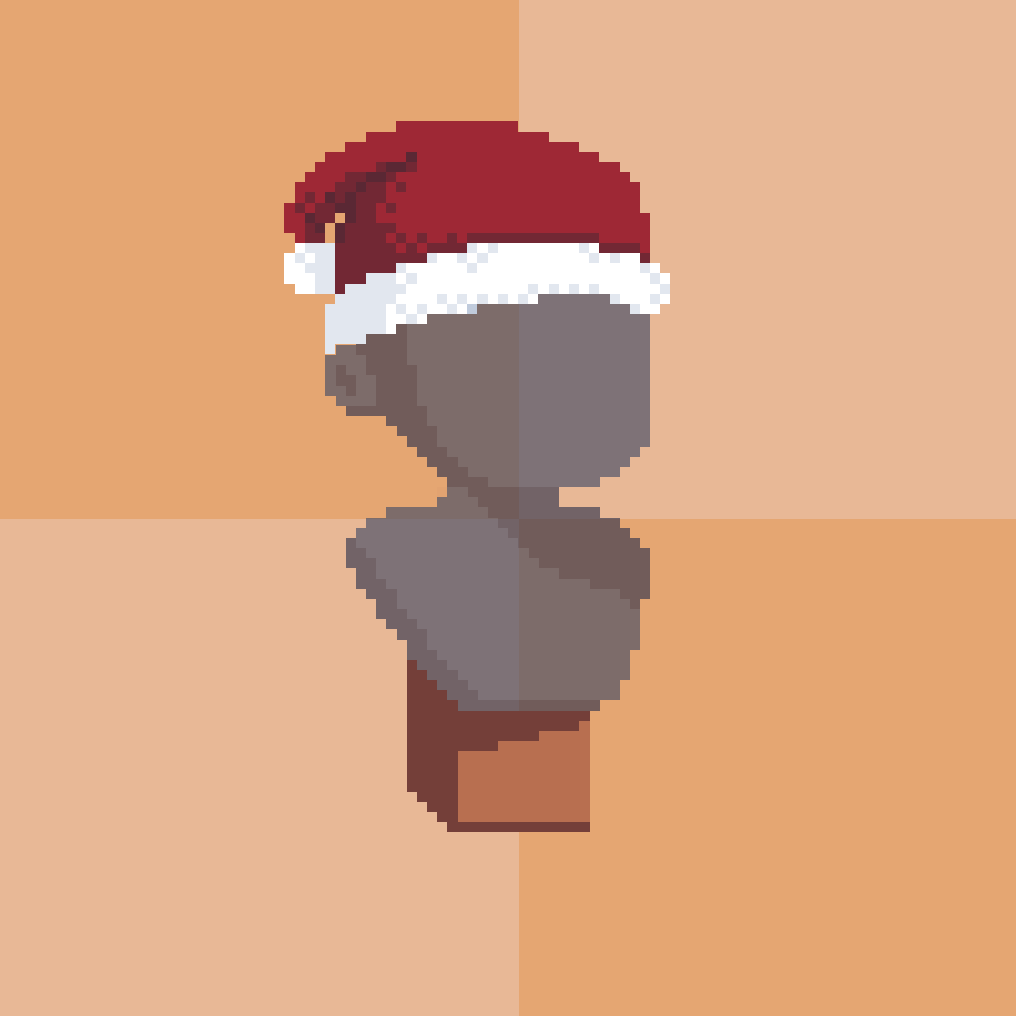
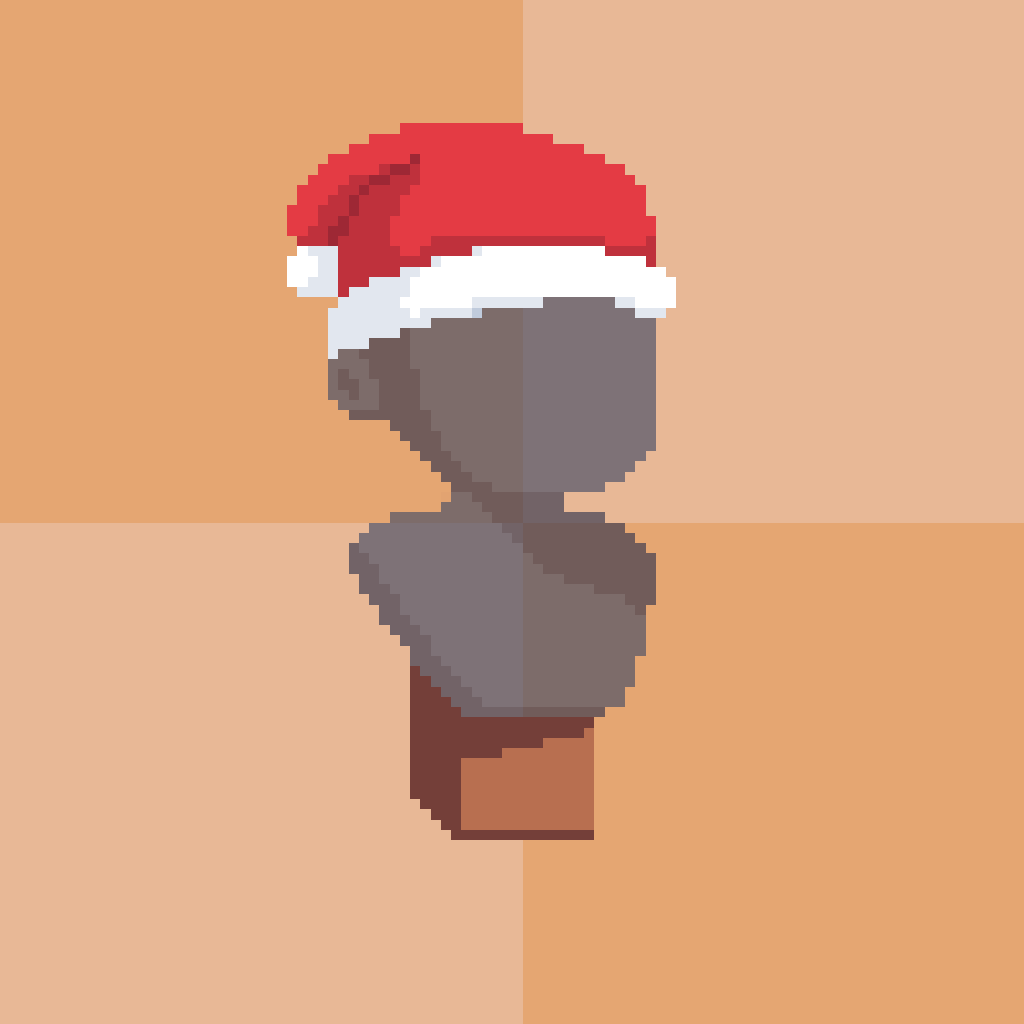
[FEAT] Xmas wearables

Changed region(s): [[0.2746, 0.122, 0.6713, 0.3356], [0.4272, 0.7933, 0.5797, 0.8238]]

diff --git a/src/features/bumpkins/types/Items.ts b/src/features/bumpkins/types/Items.ts
@@ -25,7 +25,8 @@ export type BumpkinBody =
   | "Infernal Goblin Potion"
   | "Pale Potion"
   | "Squirrel Monkey Potion"
-  | "Mermaid Potion";
+  | "Mermaid Potion"
+  | "Elf Potion";
 
 export type BumpkinHair =
   | "Basic Hair"
@@ -134,7 +135,8 @@ export type BumpkinTool =
   | "Skinning Knife"
   | "Sunflower Rod"
   | "Infernal Rod"
-  | "Pickaxe Shark";
+  | "Pickaxe Shark"
+  | "Candy Cane";
 
 export type BumpkinShoe =
   | "Black Farmer Boots"
@@ -147,7 +149,8 @@ export type BumpkinShoe =
   | "Leather Shoes"
   | "Old Shoes"
   | "Flip Flops"
-  | "Wellies";
+  | "Wellies"
+  | "Elf Shoes";
 
 export type BumpkinNecklace =
   | "Sunflower Amulet"
@@ -164,6 +167,7 @@ export type BumpkinHat =
   | "Skull Hat"
   | "Reindeer Antlers"
   | "Santa Hat"
+  | "Elf Hat"
   | "Lion Dance Mask"
   | "Fruit Bowl"
   | "Pirate Hat"
@@ -273,7 +277,9 @@ export type BumpkinSuit =
   | "Reindeer Suit"
   | "Imp Costume"
   | "Ox Costume"
-  | "Potato Suit";
+  | "Potato Suit"
+  | "Santa Suit"
+  | "Elf Suit";
 
 export type BumpkinWings =
   | "Angel Wings"
@@ -283,7 +289,7 @@ export type BumpkinWings =
   | "Crow Wings"
   | "Bat Wings";
 
-export type BumpkinBeard = "Wise Beard" | "Hoary Chin";
+export type BumpkinBeard = "Wise Beard" | "Hoary Chin" | "Santa Beard";
 
 export type BumpkinItem =
   | BumpkinBody
@@ -559,6 +565,13 @@ export const ITEM_IDS: Record<BumpkinItem, number> = {
   "Seedling Hat": 258,
   "Stormy Dumbo": 259,
   "Ugly Christmas Sweater": 260,
+  "Candy Cane": 261,
+  "Elf Hat": 262,
+  "Elf Potion": 263,
+  "Elf Shoes": 264,
+  "Elf Suit": 265,
+  "Santa Beard": 266,
+  "Santa Suit": 267,
 };
 
 // The reverse of above
@@ -878,4 +891,11 @@ export const BUMPKIN_ITEM_PART: Record<BumpkinItem, keyof Wallet> = {
   "Seedling Hat": "hat",
   "Stormy Dumbo": "hat",
   "Ugly Christmas Sweater": "shirt",
+  "Candy Cane": "tool",
+  "Elf Hat": "hat",
+  "Elf Potion": "body",
+  "Elf Shoes": "shoes",
+  "Elf Suit": "suit",
+  "Santa Beard": "beard",
+  "Santa Suit": "suit",
 };

diff --git a/src/features/bumpkins/types/Images.ts b/src/features/bumpkins/types/Images.ts
@@ -250,6 +250,13 @@ import PickaxeShark from "assets/open-sea/images/257.png";
 import SeedlingHat from "assets/open-sea/images/258.png";
 import StormyDumbo from "assets/open-sea/images/259.png";
 import UglyChristmasSweater from "assets/open-sea/images/260.png";
+import CandyCane from "assets/open-sea/images/261.png";
+import ElfHat from "assets/open-sea/images/262.png";
+import ElfPotion from "assets/open-sea/images/263.png";
+import ElfShoes from "assets/open-sea/images/264.png";
+import ElfSuit from "assets/open-sea/images/265.png";
+import SantaBeard from "assets/open-sea/images/266.png";
+import SantaSuit from "assets/open-sea/images/267.png";
 
 export const IMAGES: Record<BumpkinItem, string> = {
   "Beige Farmer Potion": BeigeFarmerPotion,
@@ -507,4 +514,11 @@ export const IMAGES: Record<BumpkinItem, string> = {
   "Seedling Hat": SeedlingHat,
   "Stormy Dumbo": StormyDumbo,
   "Ugly Christmas Sweater": UglyChristmasSweater,
+  "Candy Cane": CandyCane,
+  "Elf Hat": ElfHat,
+  "Elf Potion": ElfPotion,
+  "Elf Shoes": ElfShoes,
+  "Elf Suit": ElfSuit,
+  "Santa Beard": SantaBeard,
+  "Santa Suit": SantaSuit,
 };

diff --git a/src/features/bumpkins/types/ItemDetails.ts b/src/features/bumpkins/types/ItemDetails.ts
@@ -1186,4 +1186,32 @@ export const DETAILS: Record<BumpkinItem, ItemDetails> = {
     description: "A whimsical holiday wearable from Earn Alliance",
     part: "shirt",
   },
+  "Candy Cane": {
+    description: "A festive tool for spreading sweet holiday cheer.",
+    part: "tool",
+  },
+  "Elf Hat": {
+    description: "Get into the holiday spirit with this whimsical elf hat.",
+    part: "hat",
+  },
+  "Elf Potion": {
+    description: "Magical elixir to bring out your inner elf.",
+    part: "body",
+  },
+  "Elf Shoes": {
+    description: "Stylish footwear to complete your elfin look.",
+    part: "shoes",
+  },
+  "Elf Suit": {
+    description: "A complete elf outfit for festive occasions.",
+    part: "suit",
+  },
+  "Santa Beard": {
+    description: "Classic white beard to transform into the jolly old elf.",
+    part: "beard",
+  },
+  "Santa Suit": {
+    description: "The iconic red suit for spreading joy as Santa Claus.",
+    part: "suit",
+  },
 };
